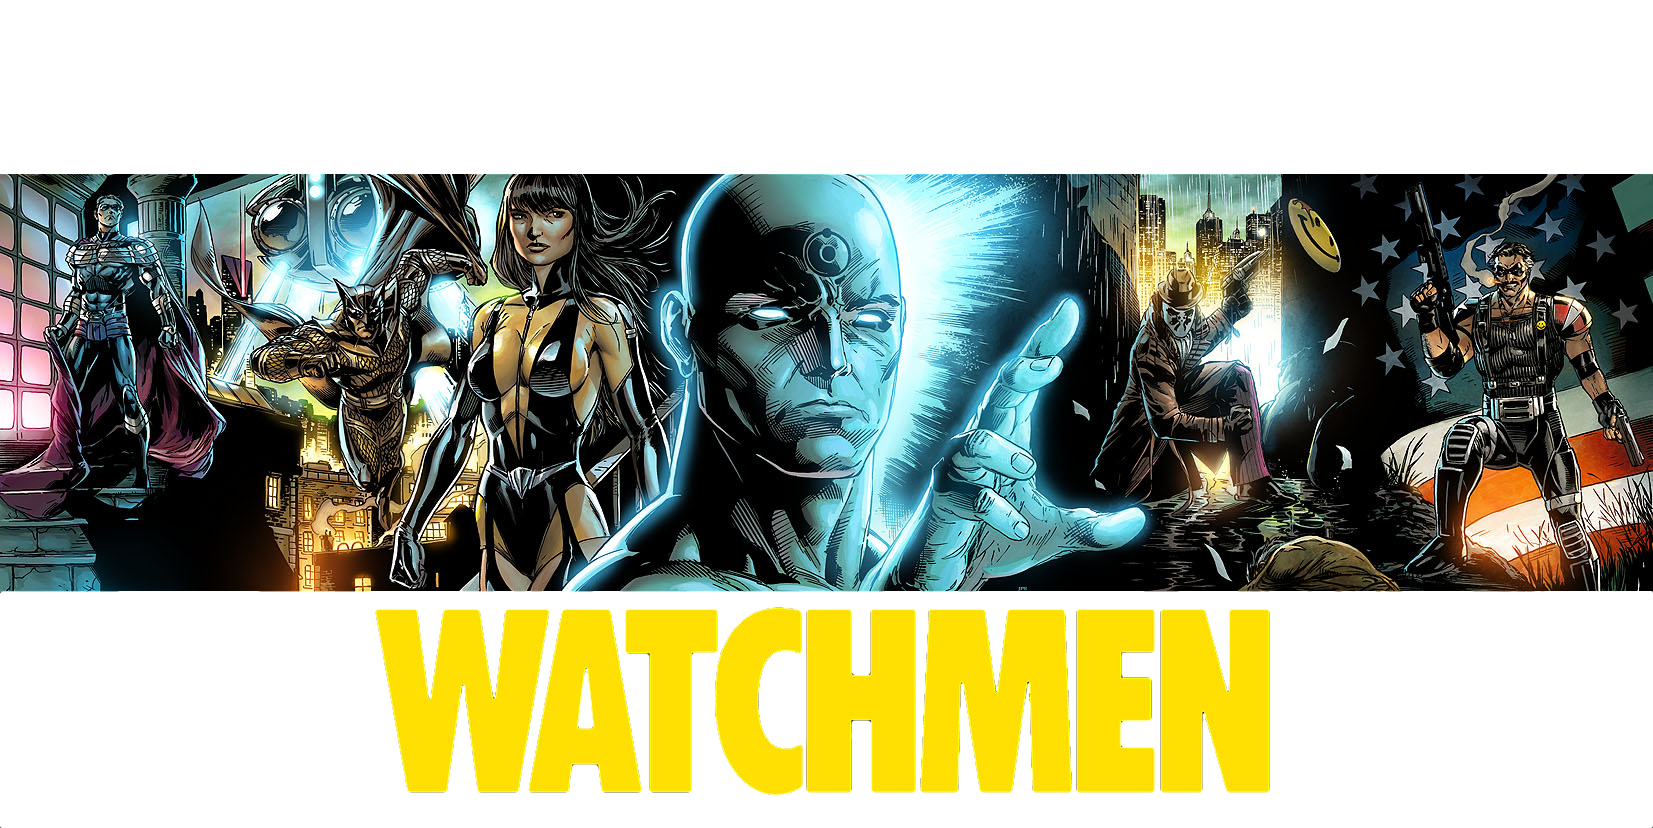
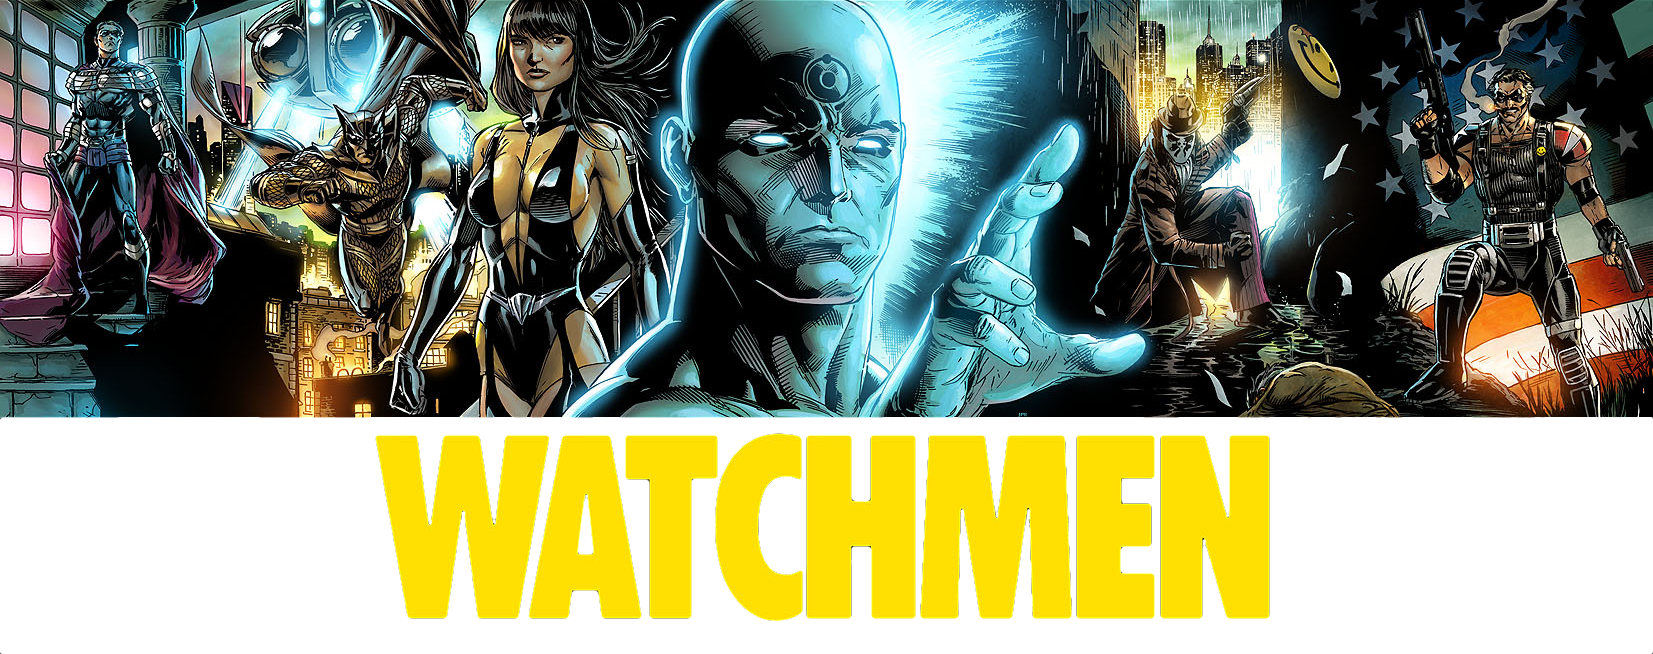
Change header img and align nav

diff --git a/Ex1/style/styles.css b/Ex1/style/styles.css
@@ -25,22 +25,21 @@ header img {
 	width : 10%;
 }
 
-
 header h1 {
     font-size : 7em;
 	display : inline;
 }
 
 main {
+    float : left;
 	width : 66%;
-	float : right;
 }
 
-#main-image {
+img#main-image {
 	width : 100%;
 }
 
-.col {
+section.col {
     margin-left : 1%;
     margin-right : 1%;
     margin-top : 2%;
@@ -49,21 +48,43 @@ main {
 	width : 31%;
 }
 
-.img_article {
+img.img_article {
 	width : 100%;
 }
 
 /* Common attrs for links in the menu */
 nav {
-    margin-left : 10%;
-	float : left;
-	width : 23%;
+    float : left;
+    width : 33%;
 }
 
 nav ul{
-	margin-top : 50%;
-	padding : 0;
+    -webkit-margin-before: 0em; /* override default margin */
+    padding-left : 20px;
+    padding-right : 20px;
 	list-style-type : none;
+}
+nav ul li a {
+    padding : 11px;
+    display : block;
+}
+
+nav li a:link, nav li a:visited {
+	color : #C6A800;
+	text-align : center;
+	text-decoration : none;
+    background-color : #424242;
+}
+
+nav li a:hover, nav li a:active {
+	color : #FFD900;
+	font-weight : bold;
+    background-color : #333;
+}
+
+div#subscribe-form {
+    float : right;
+    width : 100%;
 }
 
 #subscribe-form > p {
@@ -85,8 +106,8 @@ input[type=email]:focus {
 }
 
 
-input[type=email] { 
-    position: relative;
+input[type=email] {
+    float : right;
     padding-right: 45px;
     padding-left: 15px;
     font-size: 1.2em;
@@ -99,6 +120,7 @@ input[type=email] {
 }
 
 input[type=submit] {
+    float : right;
     border-color: #FFE864;
     background-color: #FFD900;
     padding: 11px 20px;
@@ -115,21 +137,6 @@ input[type=submit]:hover {
 
 input[type=submit]:active {
     background-color : #C6A800;
-}
-
-div#subscribe-form {
-    float : right;
-}
-
-nav li a:link, nav li a:visited {
-	color : #C6A800;
-	text-align : center;
-	text-decoration : none;
-}
-
-nav li a:hover, nav li a:active {
-	color : #FFD900;
-	font-weight : bold;
 }
 
 footer {

diff --git a/Ex1/index.html b/Ex1/index.html
@@ -24,8 +24,9 @@
         <form>
             <div id="subscribe-form">
                 <p>Subscribe to our newsletter!</p>
-                <input id="input-mail" type="email" name="my-input" placeholder="email@example.com" /><input id="input-button" type="submit" value="Submit" />
-            </div>
+                <input id="input-button" type="submit" value="Submit" />
+                <input id="input-mail" type="email" name="my-input" placeholder="email@example.com" />
+             </div>
         </form>
             <!-- Main content of the page -->
             <section class="col">
